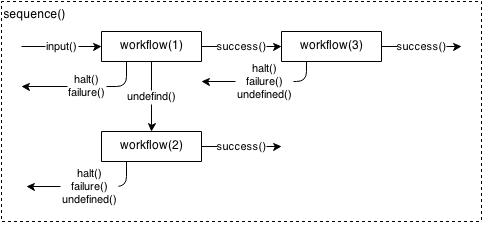
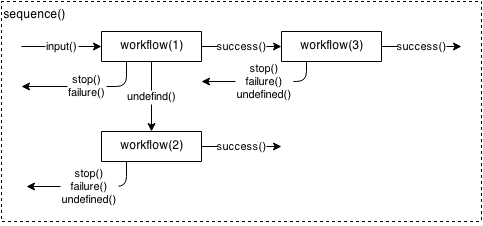
changed halt to stop

diff --git a/README.md b/README.md
@@ -25,7 +25,7 @@ case pal:authenticate(Req, W) of
 		io:format("User has been authenticated but not authorized:~n~p~n", [M]);
 	{#{} = M, Req2} ->
 		io:format("User hasn't been authenticated:~n~p~n", [M]);
-	{halt, Req2} ->
+	{stop, Req2} ->
 		io:format("Error has occured or workflow must return an HTTP response as a part of normal execution")
 end.
 
@@ -64,7 +64,7 @@ The result of the workflow execution will be one of the following:
 	when not enough data for normal execution and the control should be delegated to an another workflow
 - *failure()* :: `{{fail, Reason}, Req}`  
 	when an error has occurred, `Reason` will contain the reason
-- *halt()* :: `{halt, Req}`  
+- *stop()* :: `{stop, Req}`  
 	when workflow must return an HTTP response as a part of normal execution  
 	(for instance, redirect to the login page of OAuth2 provider)
 
@@ -128,7 +128,7 @@ The process of delegating control between workflows may differ depending on the 
 
 ![pal-sequence-end][pal-workflow-sequence-and-img]
 
-- In case of or-sequence, the control will be delegated to the next workflow if previous one returns *undefined()*. The sequence will be stopped if any of workflow returns *halt()* or *failure()*
+- In case of or-sequence, the control will be delegated to the next workflow if previous one returns *undefined()*. The sequence will be stopped if any of workflow returns *stop()* or *failure()*
 
 ![pal-sequence-or][pal-workflow-sequence-or-img]
 
@@ -146,7 +146,7 @@ and its value is reduced to one of two possible (by default, user of library can
 - *success()* :: `{Output, Req}`  
 	if the result obtained from the sequence of workflows is *undefined()*
 	the `Output` will contain an empty Erlang map
-- *halt()* :: `{halt, Req}`  
+- *stop()* :: `{stop, Req}`  
 	if the result obtained from the sequence of workflows is *failure()*
 	the HTTP response with the status code equals 422 and the body containing a reason of failure in json format
 	will be generated
